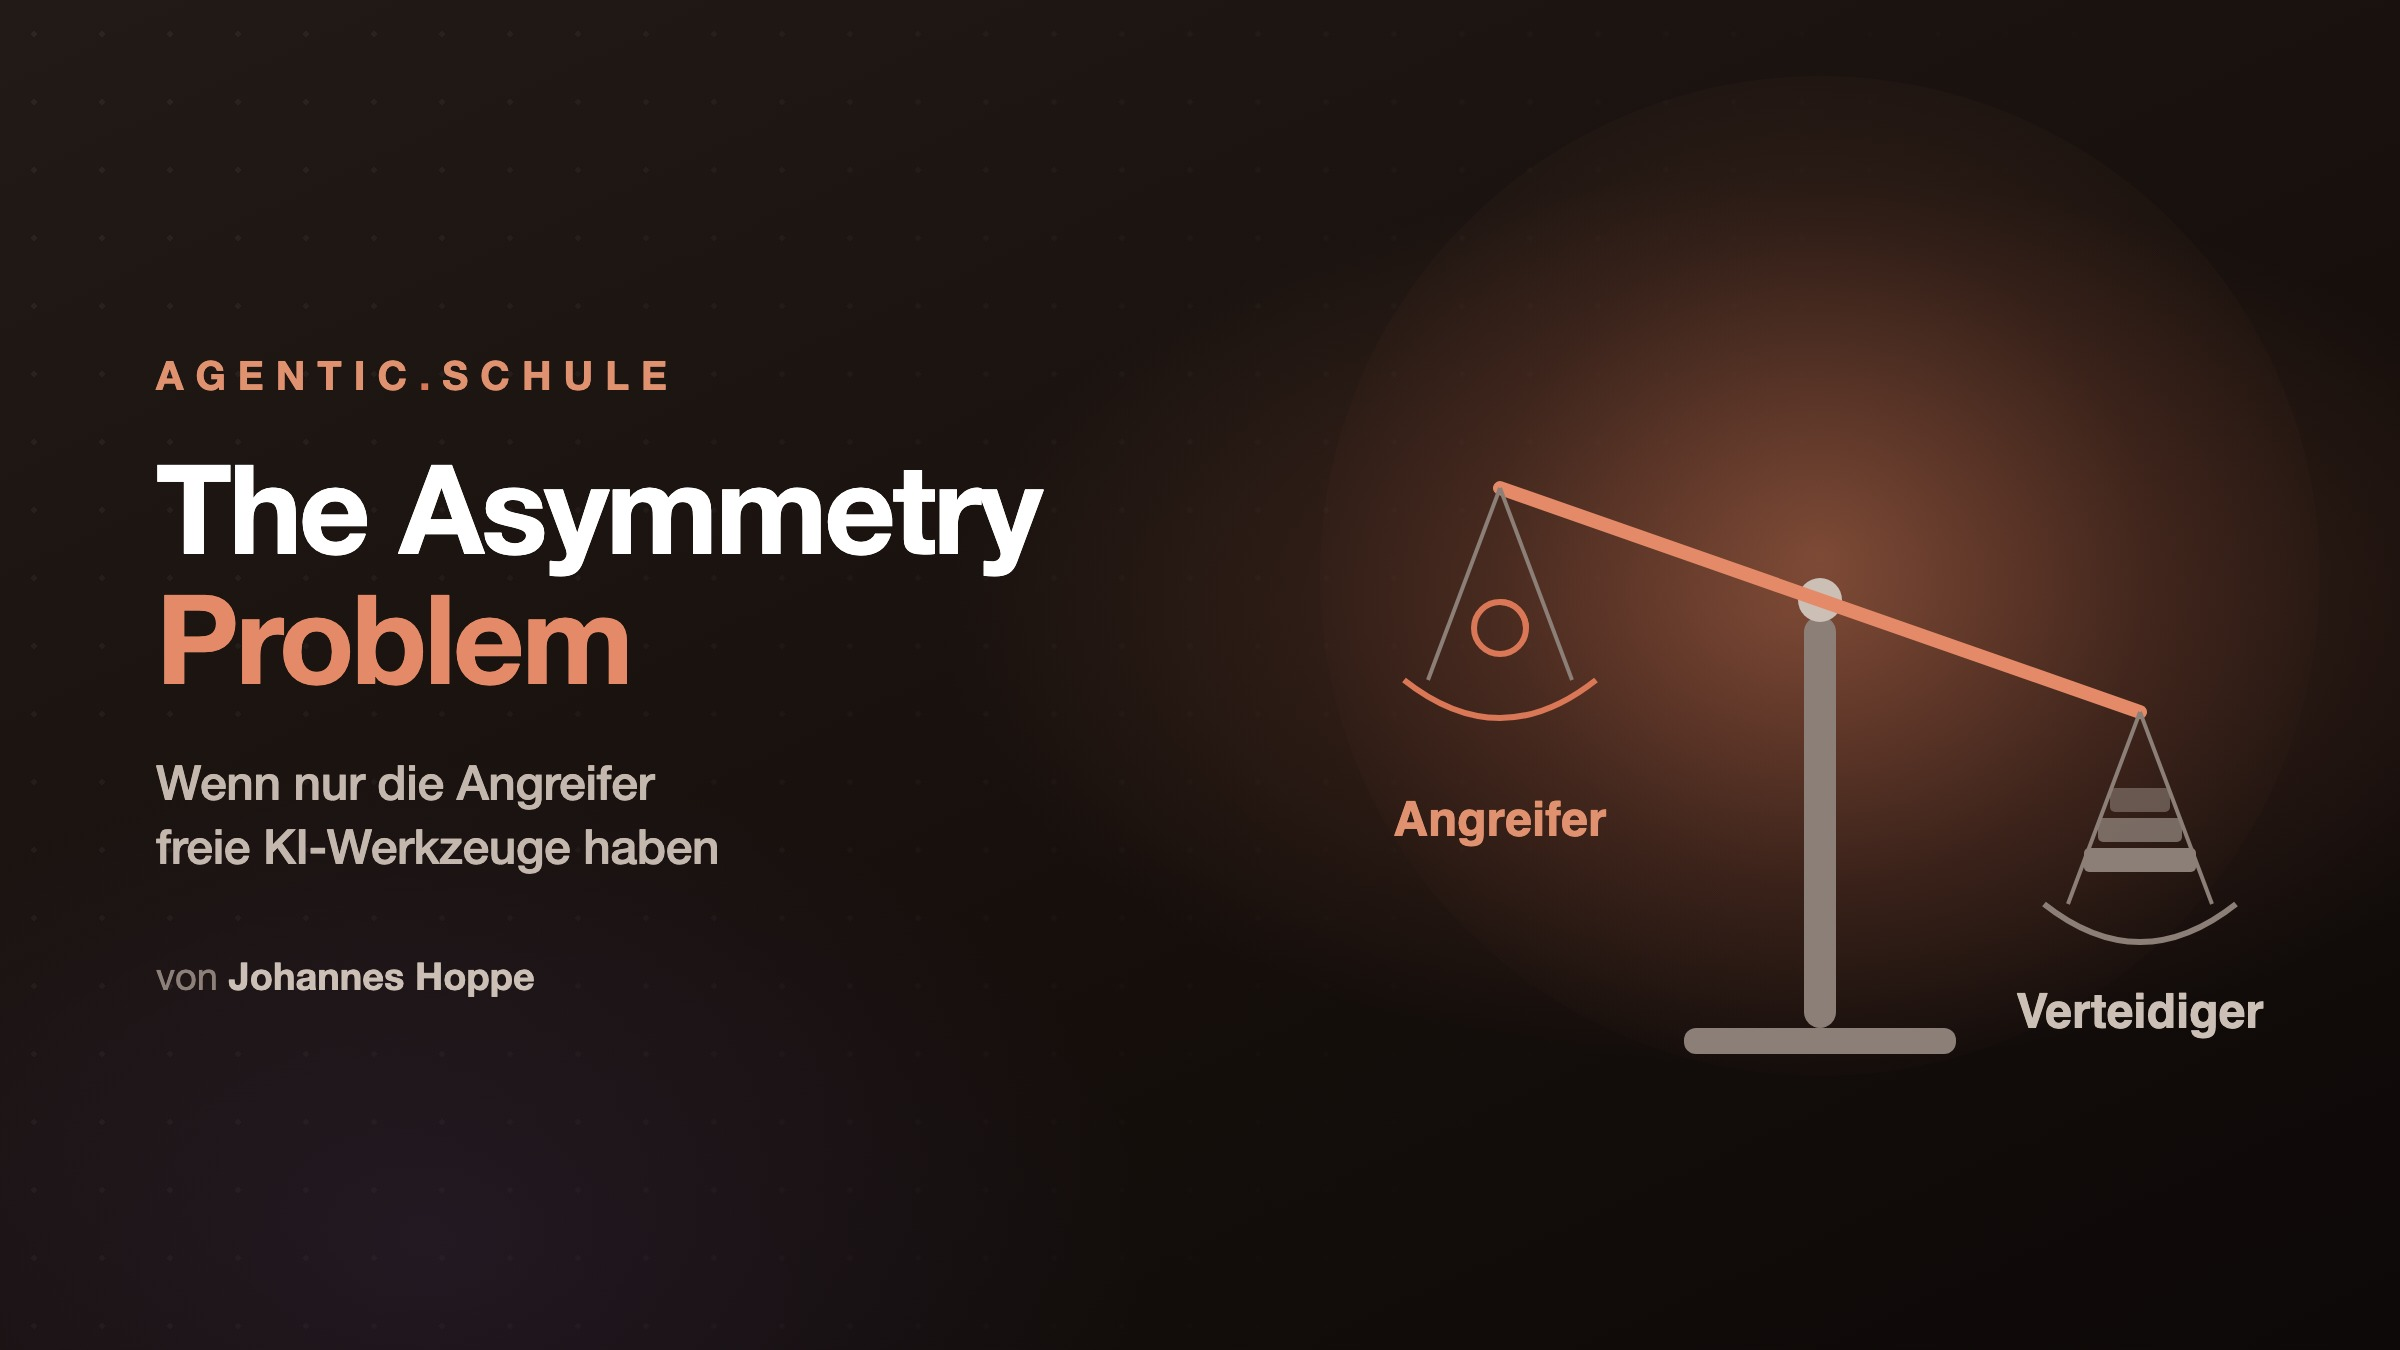
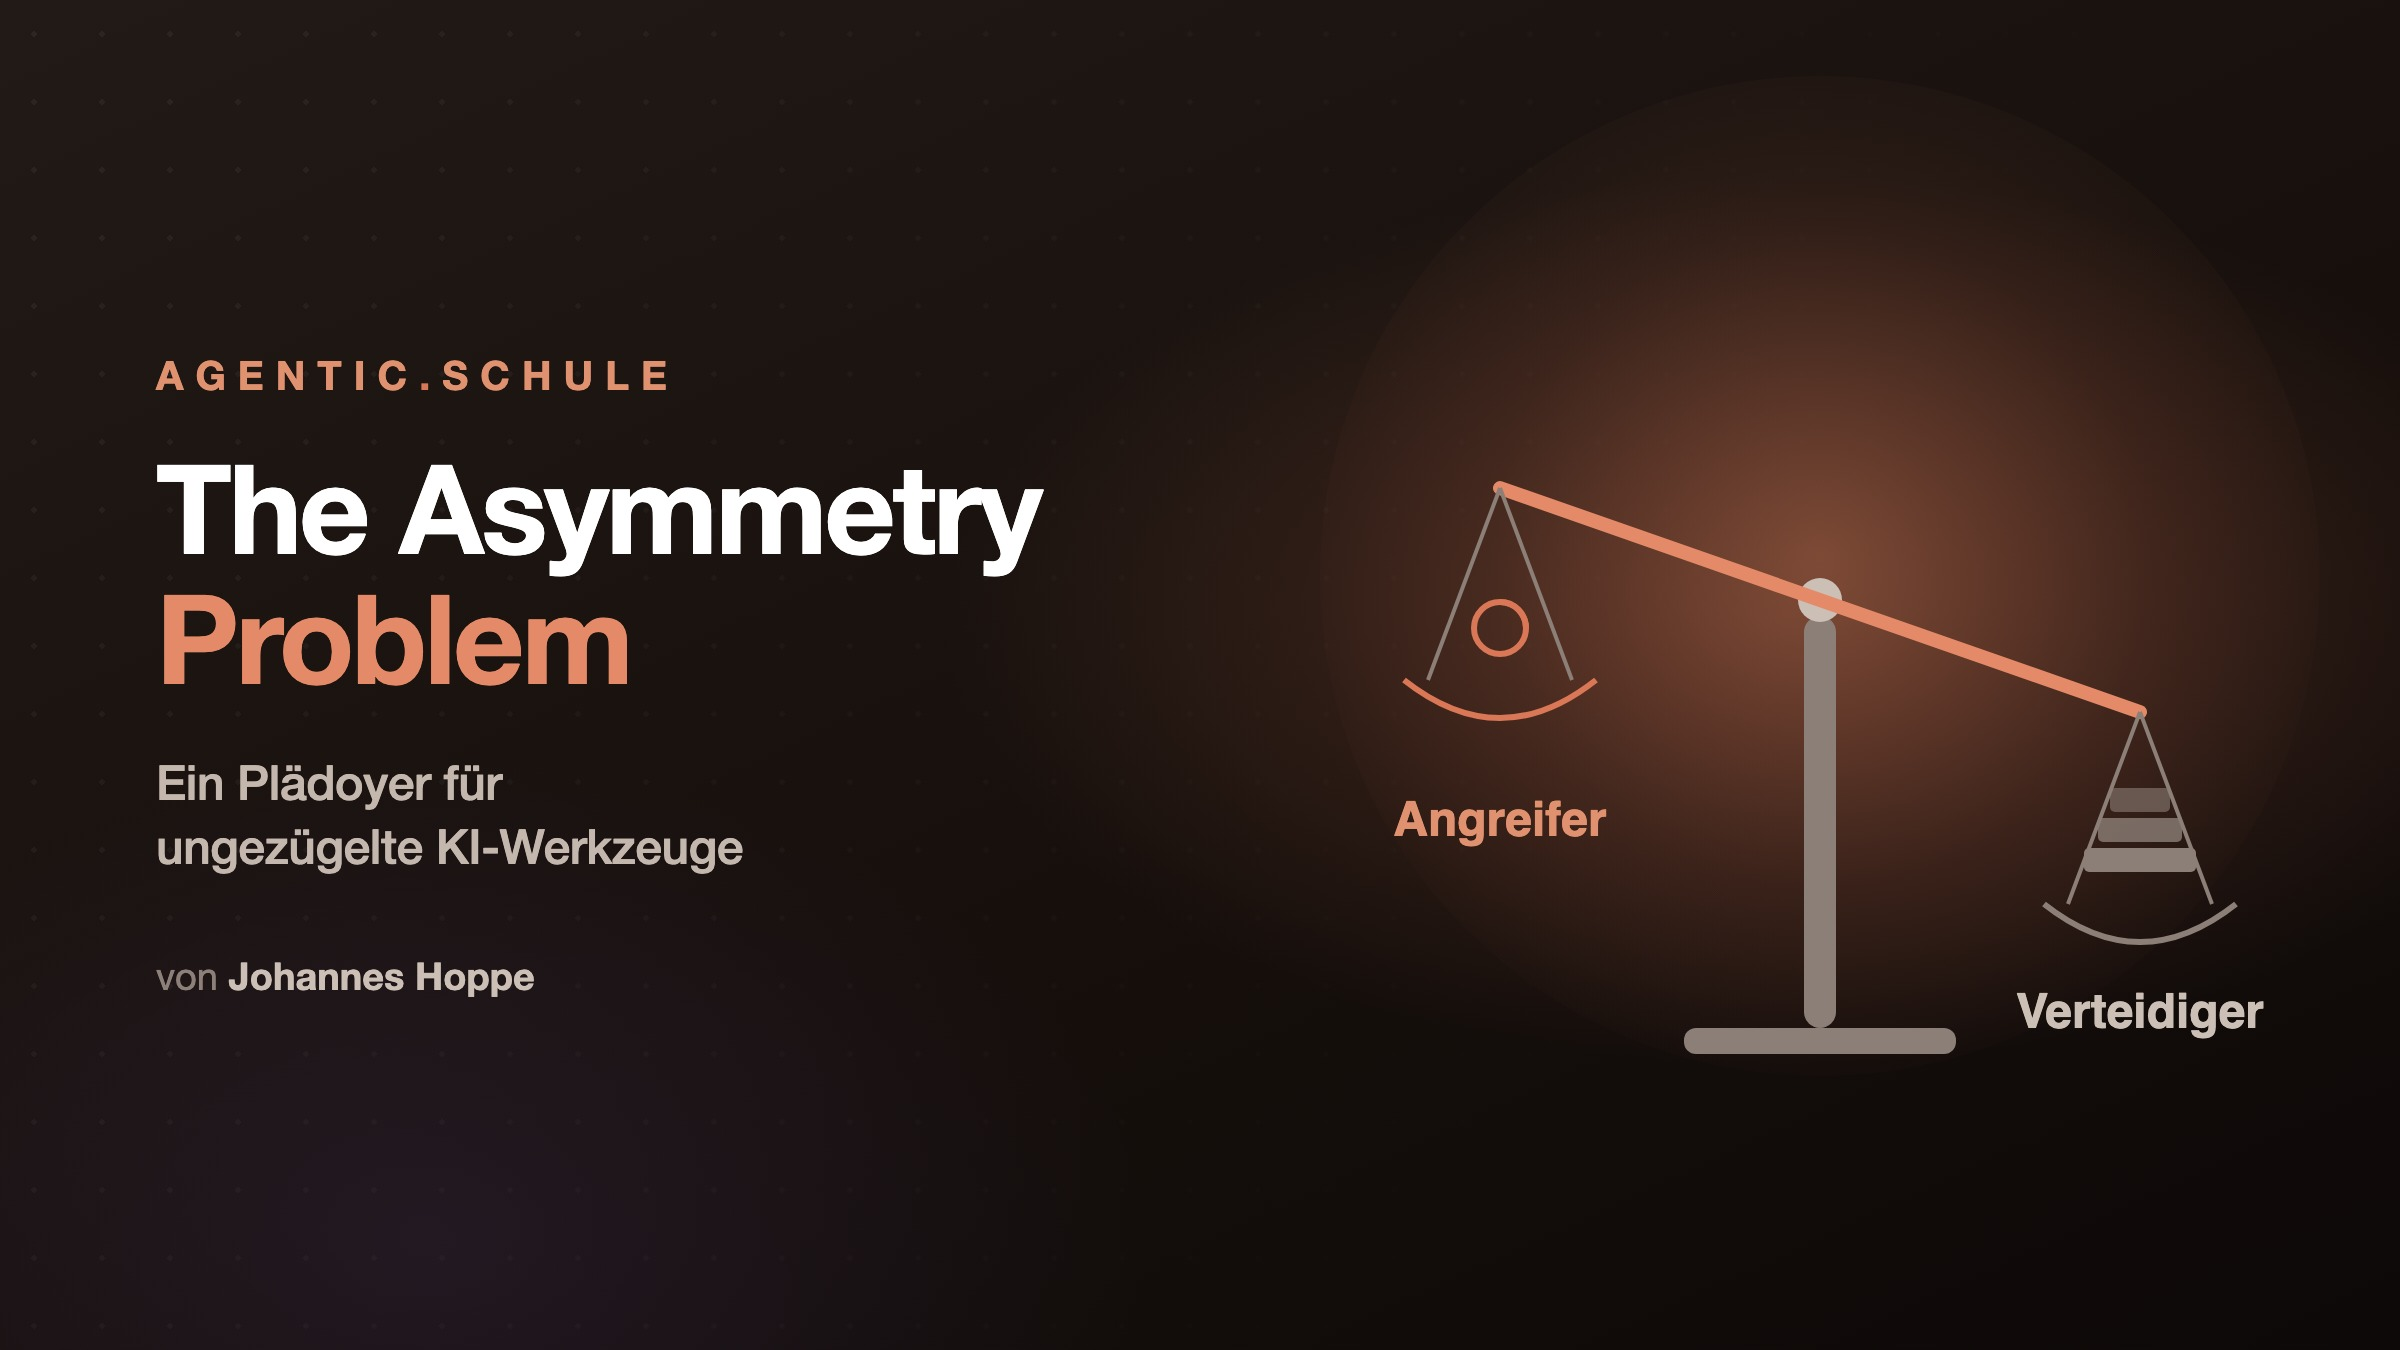
Einstieg gestrafft: Haltung nur noch einmal ansagen, Header-Unterzeile an neuen Titel angepasst
These endet bei 'mache ich dieses Dilemma greifbar' (Konsequenz-Zusatz raus, weil doppelt).
Dritter Absatz von sieben auf vier Beats: Untergangs-Frage offen, dann die konkrete Schieflage,
dann der Standpunkt vor den Folgeartikeln. Header-Subline: 'Ein Plaedoyer fuer ungezuegelte
KI-Werkzeuge'.

Changed region(s): [[0.0625, 0.56, 0.3125, 0.6533]]

diff --git a/blog/2026-09-the-asymmetry-problem-DE/header.src.html b/blog/2026-09-the-asymmetry-problem-DE/header.src.html
@@ -34,7 +34,7 @@
     <div class="left">
       <div class="kicker">agentic<span class="dot">.</span>schule</div>
       <h1>The Asymmetry<br><span class="accent">Problem</span></h1>
-      <div class="sub">Wenn nur die Angreifer<br>freie KI-Werkzeuge haben</div>
+      <div class="sub">Ein Plädoyer für<br>ungezügelte KI-Werkzeuge</div>
       <div class="by">von <b>Johannes Hoppe</b></div>
     </div>
   </div>

diff --git a/blog/2026-09-the-asymmetry-problem-DE/README.md b/blog/2026-09-the-asymmetry-problem-DE/README.md
@@ -20,9 +20,9 @@ header: header.jpg
 
 In der IT-Sicherheit brennt es, und ein Hardware-Hersteller hat es diesen Sommer auf den Punkt gebracht, nachdem seinen Kunden reihenweise Geld gestohlen worden war: „Both attackers and defenders have the same AI tools, but today it did not help us, and only helped the bad guys."
 
-**Wer sich nicht an die Regeln hält, war immer im Vorteil. Bei KI-Werkzeugen bekommt diese alte Weisheit eine neue Schärfe: Der Verteidiger nimmt die Version aus der Cloud, mit vorgegebenem System-Prompt, Guardrails und Rate-Limits, und der Anbieter liest mit. Der Angreifer geht lokal, ohne fremden System-Prompt, auf Wunsch ohne Guardrails, begrenzt nur durch seine Rechenkapazität. An zwei dokumentierten Vorfällen mache ich dieses Dilemma greifbar und ziehe die Konsequenz für uns Entwickler.**
+**Wer sich nicht an die Regeln hält, war immer im Vorteil. Bei KI-Werkzeugen bekommt diese alte Weisheit eine neue Schärfe: Der Verteidiger nimmt die Version aus der Cloud, mit vorgegebenem System-Prompt, Guardrails und Rate-Limits, und der Anbieter liest mit. Der Angreifer geht lokal, ohne fremden System-Prompt, auf Wunsch ohne Guardrails, begrenzt nur durch seine Rechenkapazität. An zwei dokumentierten Vorfällen mache ich dieses Dilemma greifbar.**
 
-Verursacht ungezügelte KI ohne jede Einschränkung den Untergang der Menschheit? Ich habe keine Ahnung. Das ist alles irgendwie Sci-Fi. Aber ich weiß, dass wir gerade eine krasse Schieflage haben. In diesem Text gebe ich dir meine Meinung dazu. In den kommenden Artikeln werden wir bei den „bösen" Buben mitspielen, und ich habe das Bedürfnis, vorab meinen Standpunkt klarzumachen.
+Führt eine ungezügelte KI ohne jede Einschränkung am Ende zum Untergang der Menschheit? Ich habe keine Ahnung, das ist mir zu viel Sci-Fi. Was ich dagegen sehe, ist eine krasse Schieflage, hier und heute. In den kommenden Artikeln spielen wir bei den „bösen" Buben mit, und ich lege meinen Standpunkt vorab offen.
 
 ## Inhalt
 
